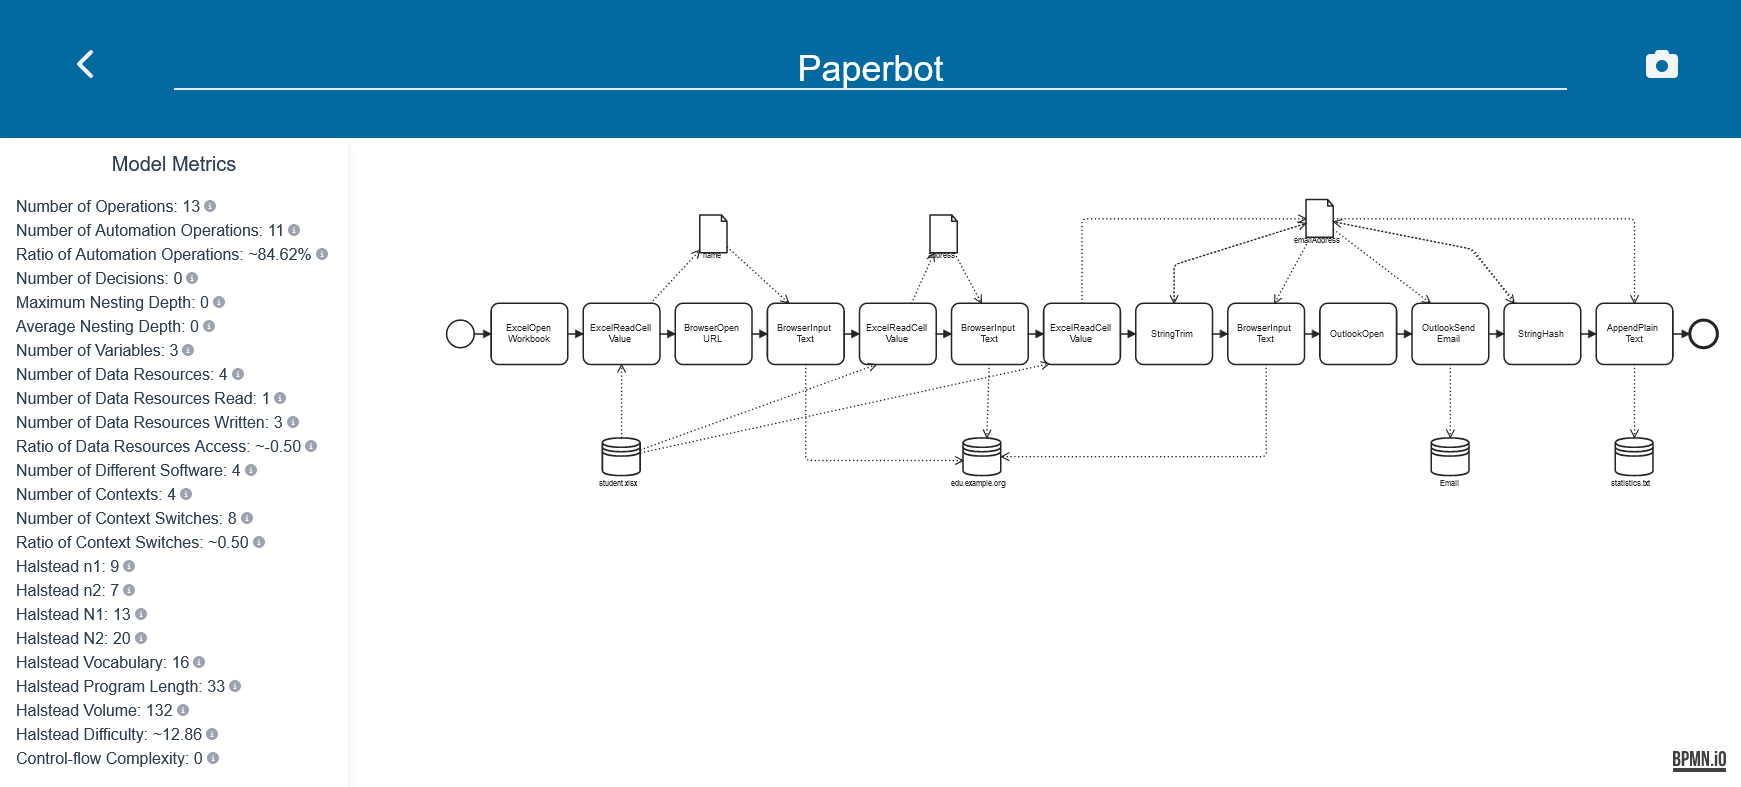
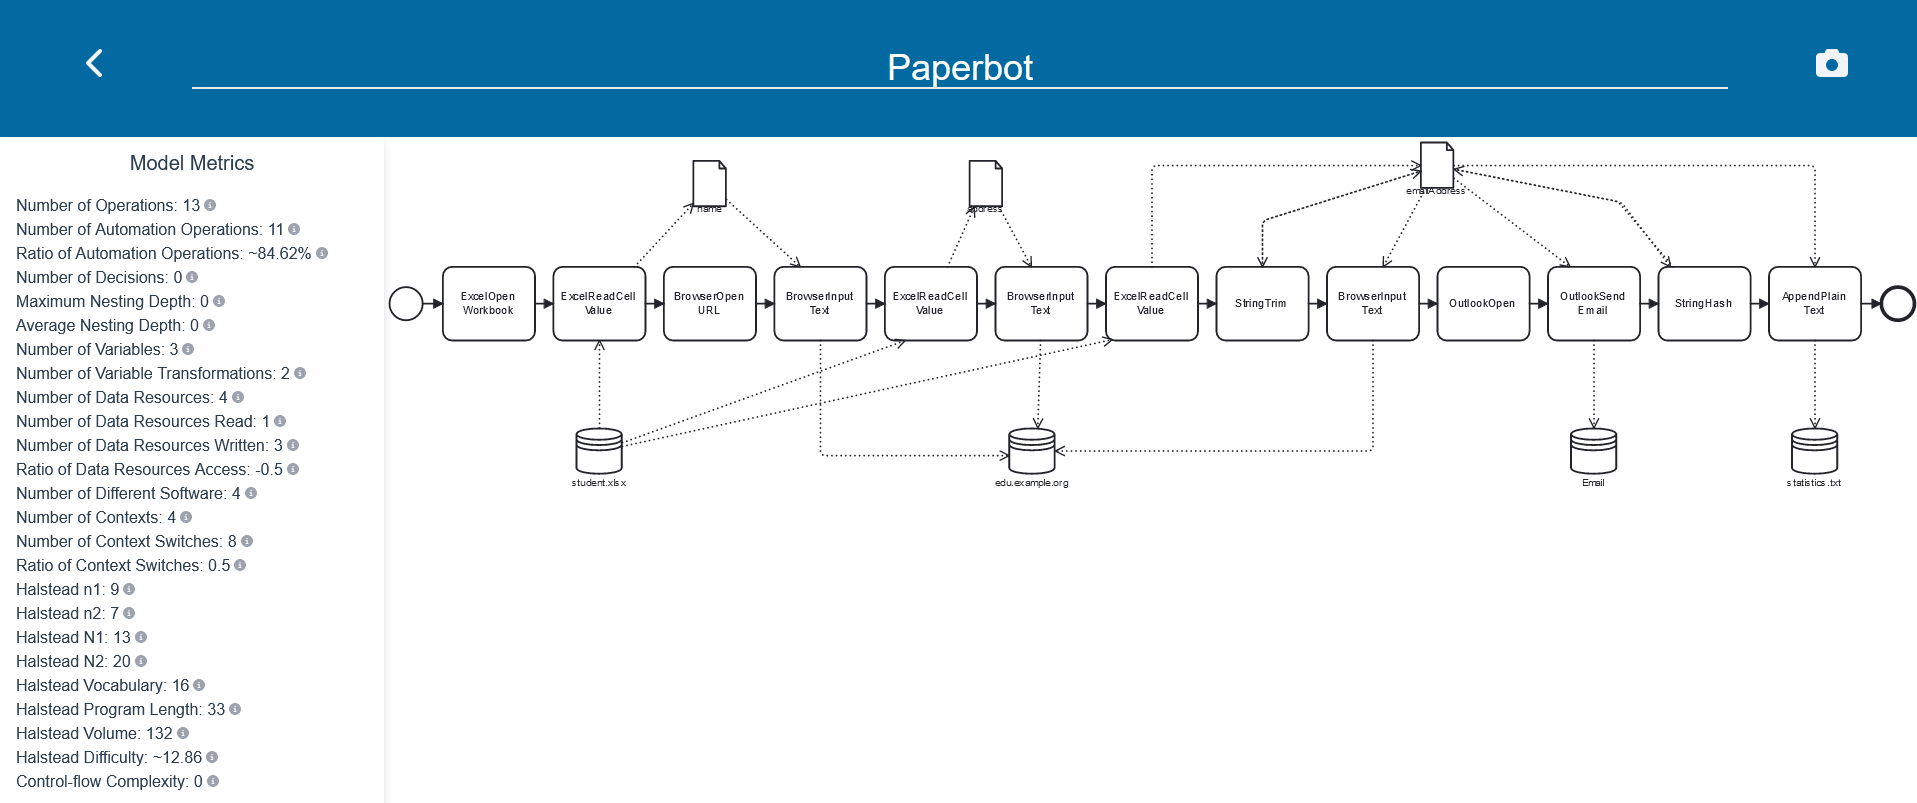
Update metrics screenshot

diff --git a/components/metrics/README.md b/components/metrics/README.md
@@ -11,5 +11,4 @@ Furthermore, the component computes the adapted Halstead-based Process Complexit
 ## Current Limitations
 
 - The metrics implemented so far are not control-flow sensitive and thus might produce inacurrate numbers for models with decision logic.
-- The user interface and presentation of the metrics need improvement.
-- Some numbers are mistakenly inidicated to be rounded values.
+- The user interface and presentation of the metrics need improvement, so far it's only a long list.
